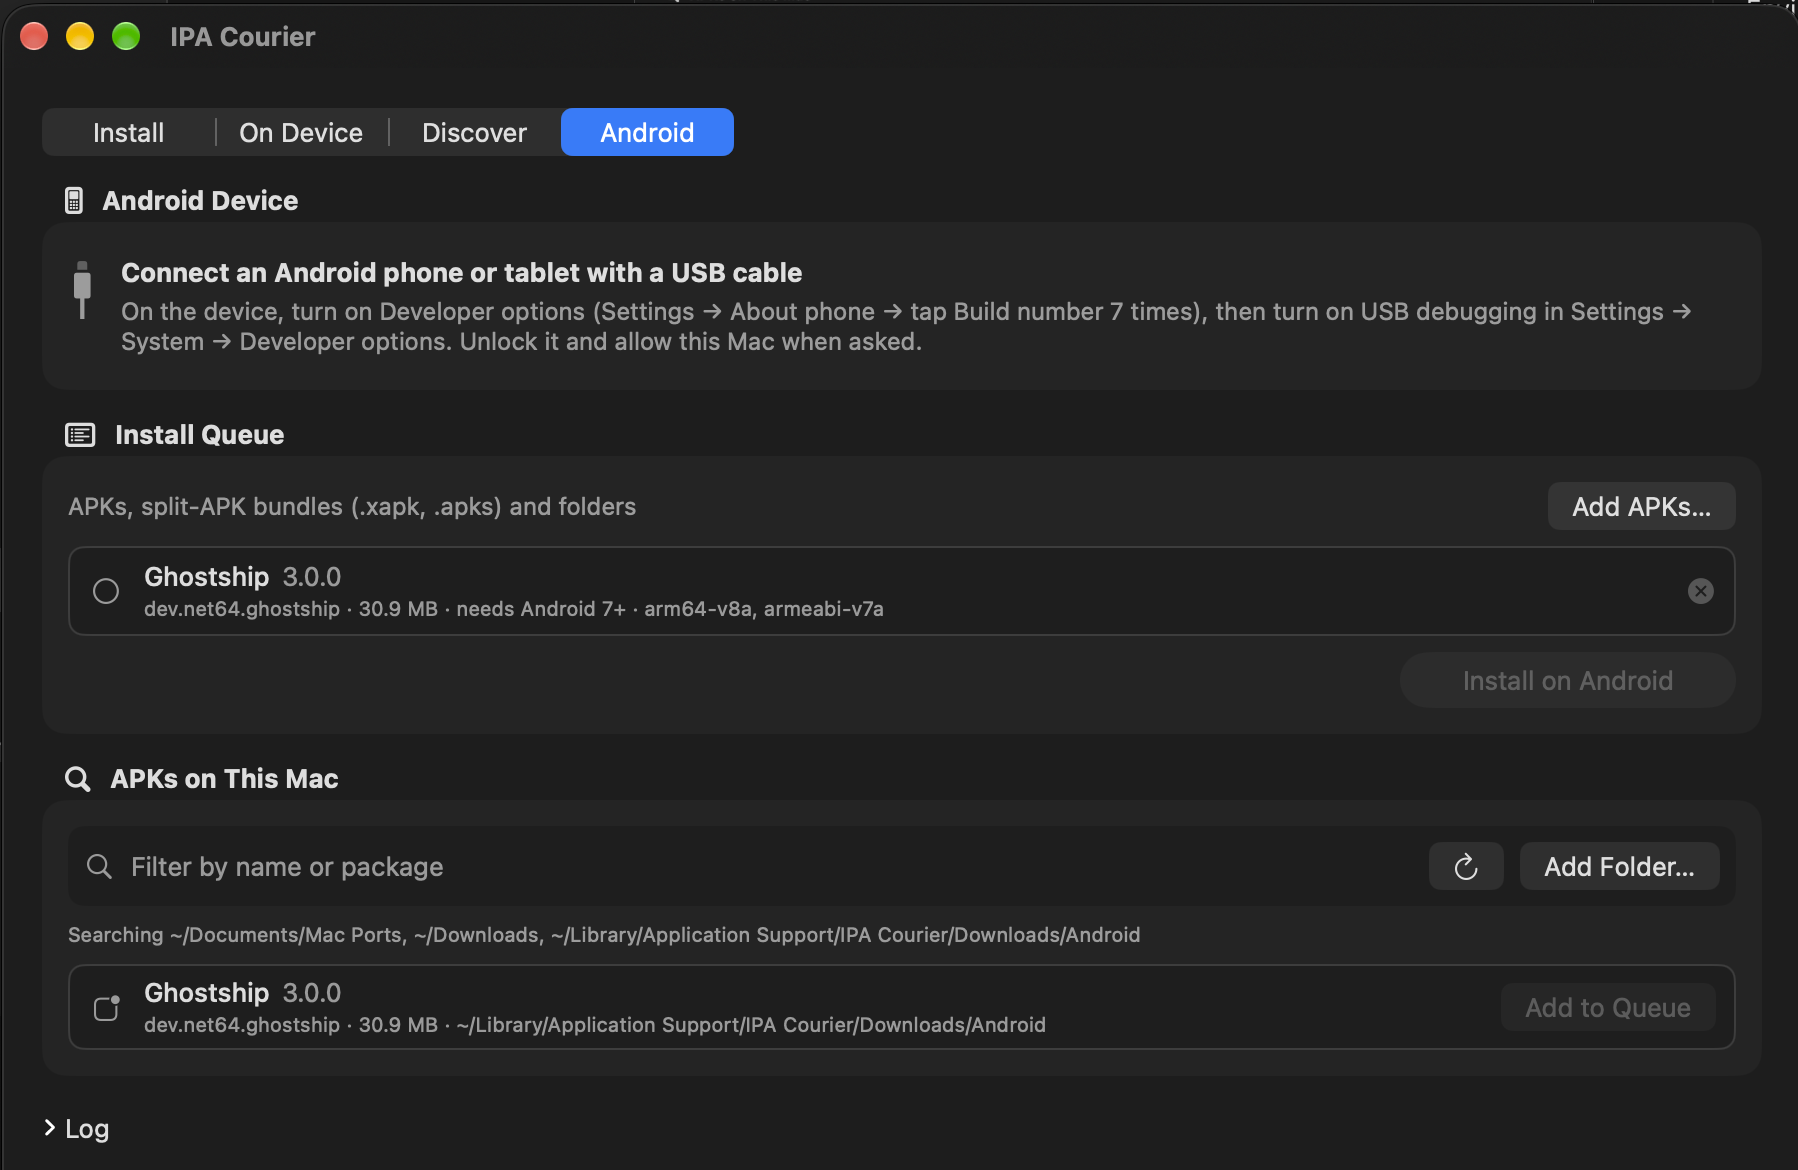
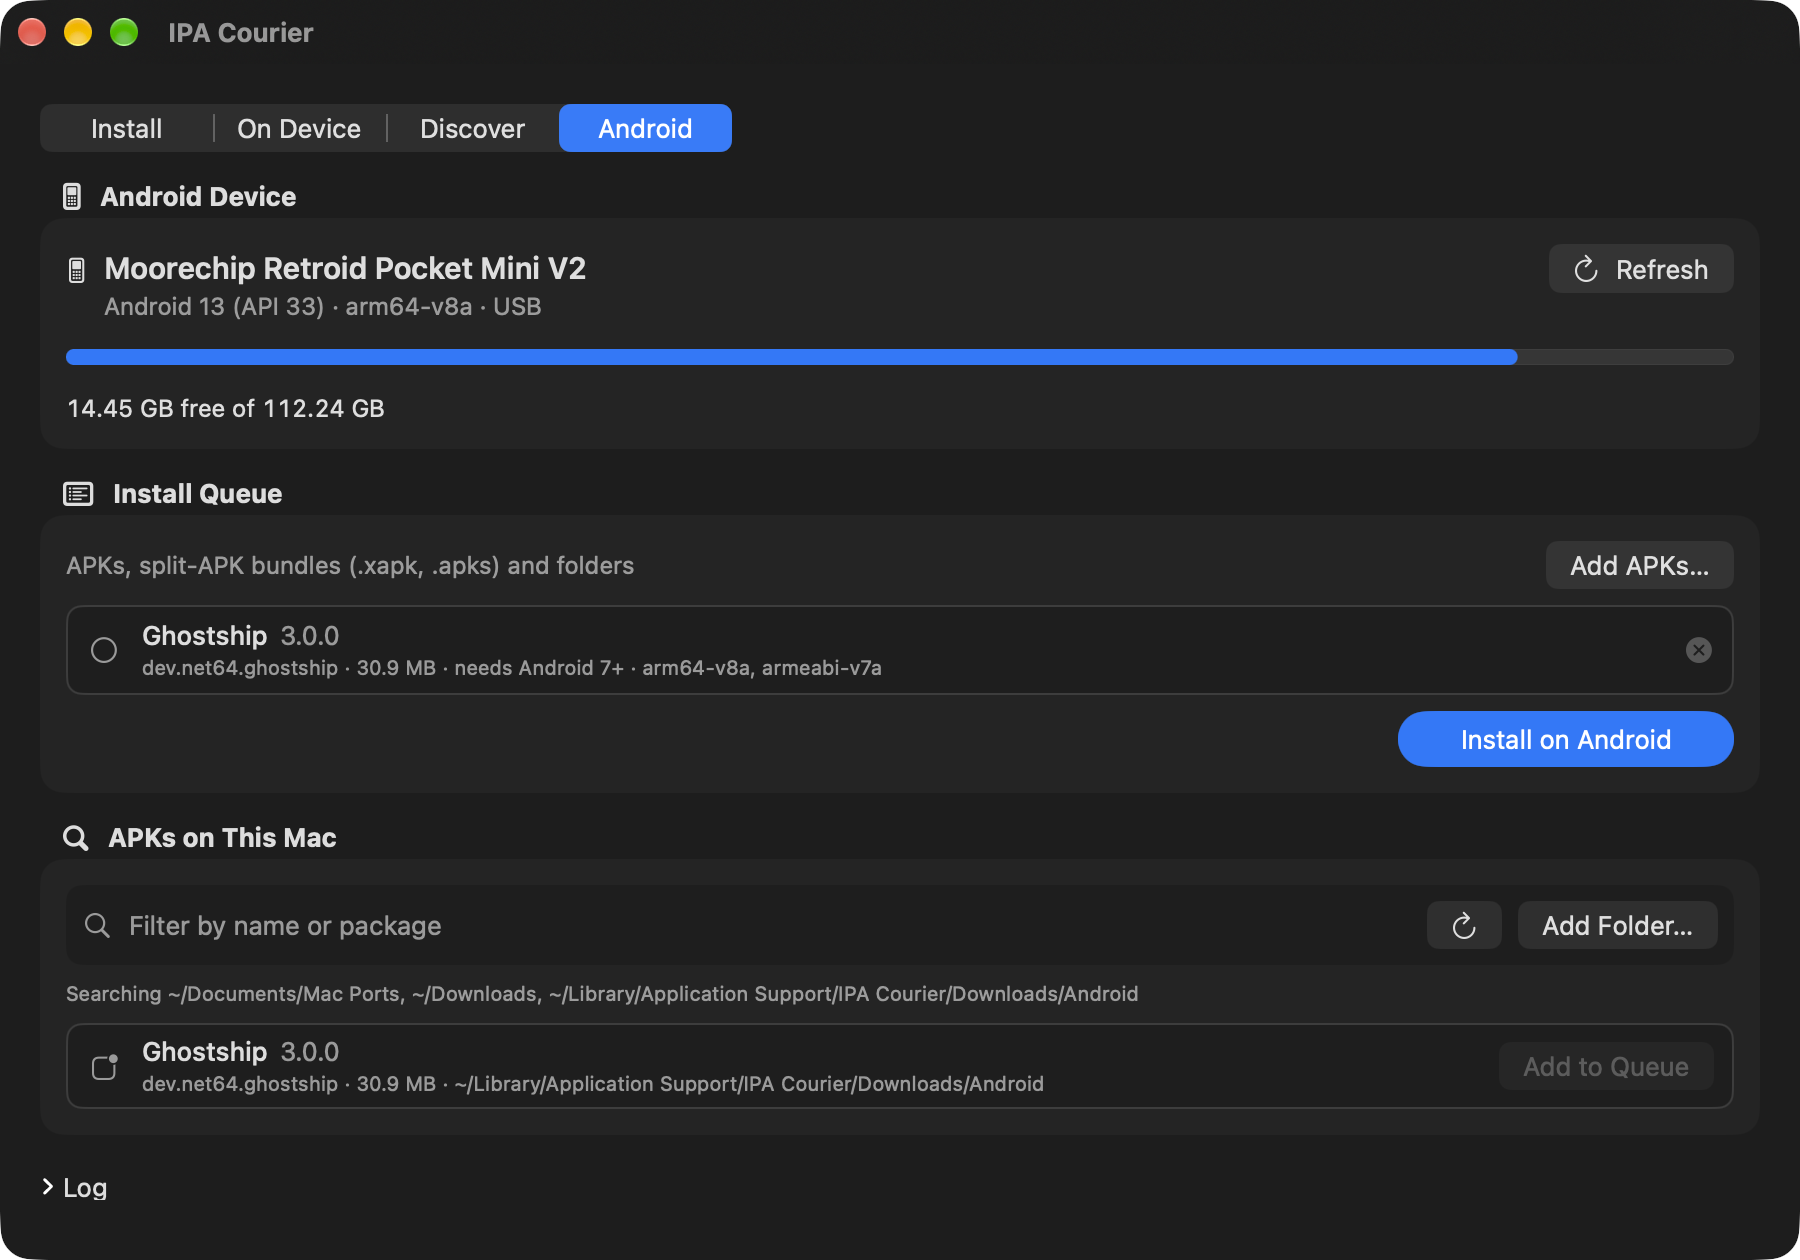
README: retake the Discover and Android screenshots
Both now show all four tabs; Android shows a connected device.

diff --git a/README.md b/README.md
@@ -85,7 +85,7 @@ the original game.
 **Android tab:** sideload Android apps over USB with Google's adb.
 
 <p align="center">
-  <img src="docs/android.png" width="720" alt="Android tab with instructions for connecting a device, Ghostship 3.0.0 waiting in the install queue with its package, size, minimum Android version and CPU types, and the same APK listed under APKs on This Mac">
+  <img src="docs/android.png" width="720" alt="Android tab showing a connected Retroid Pocket Mini V2 with its Android version, CPU type and free storage, Ghostship 3.0.0 ready in the install queue with its package, size, minimum Android version and CPU types, and the same APK listed under APKs on This Mac">
 </p>
 
 - **Device:** shows the connected phone or tablet's model, Android version,
